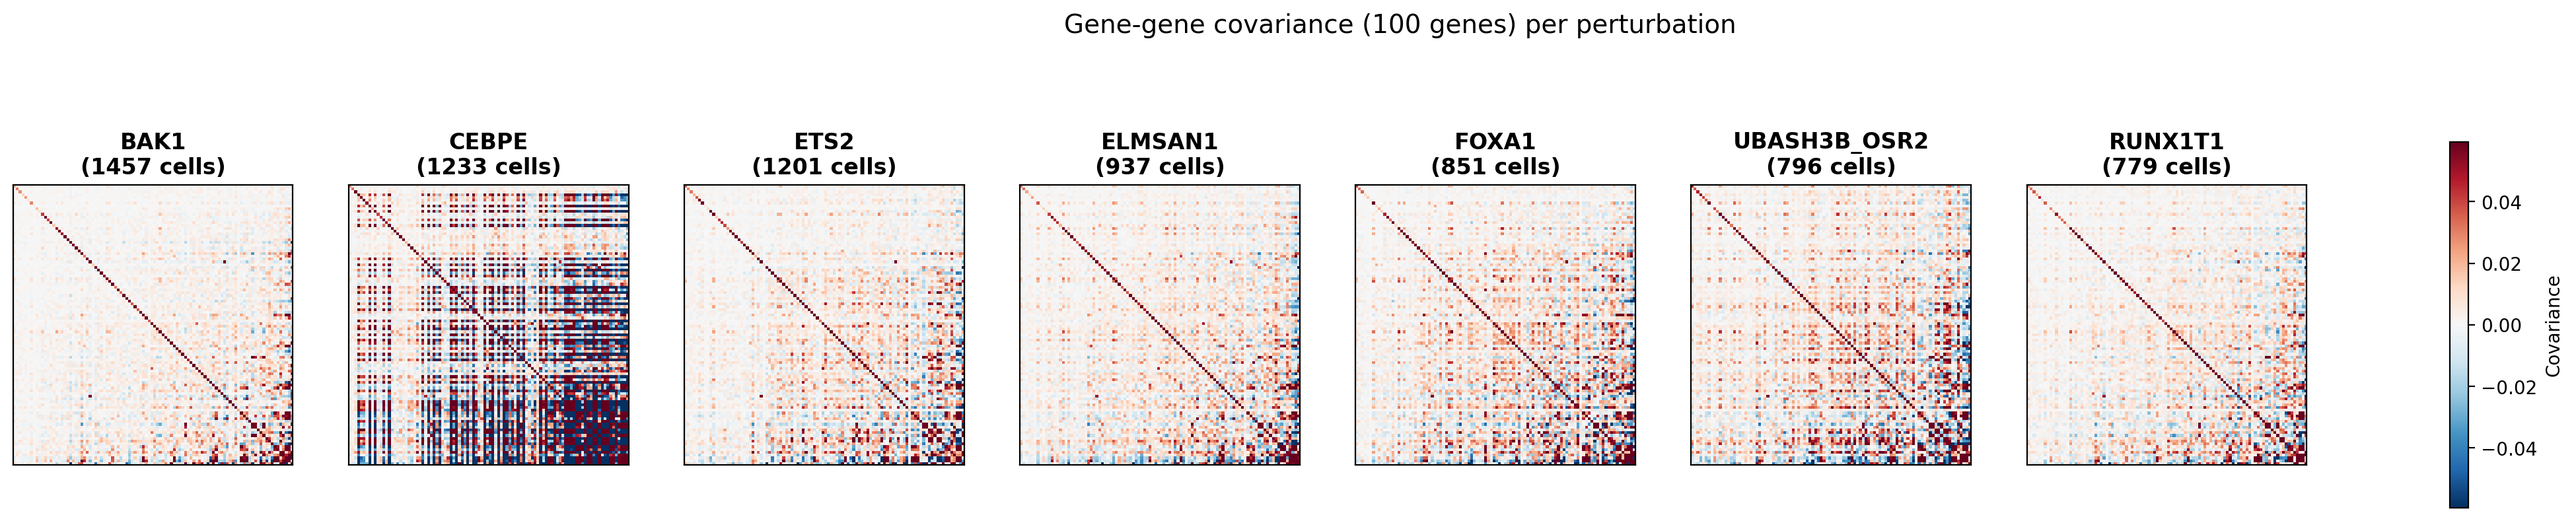
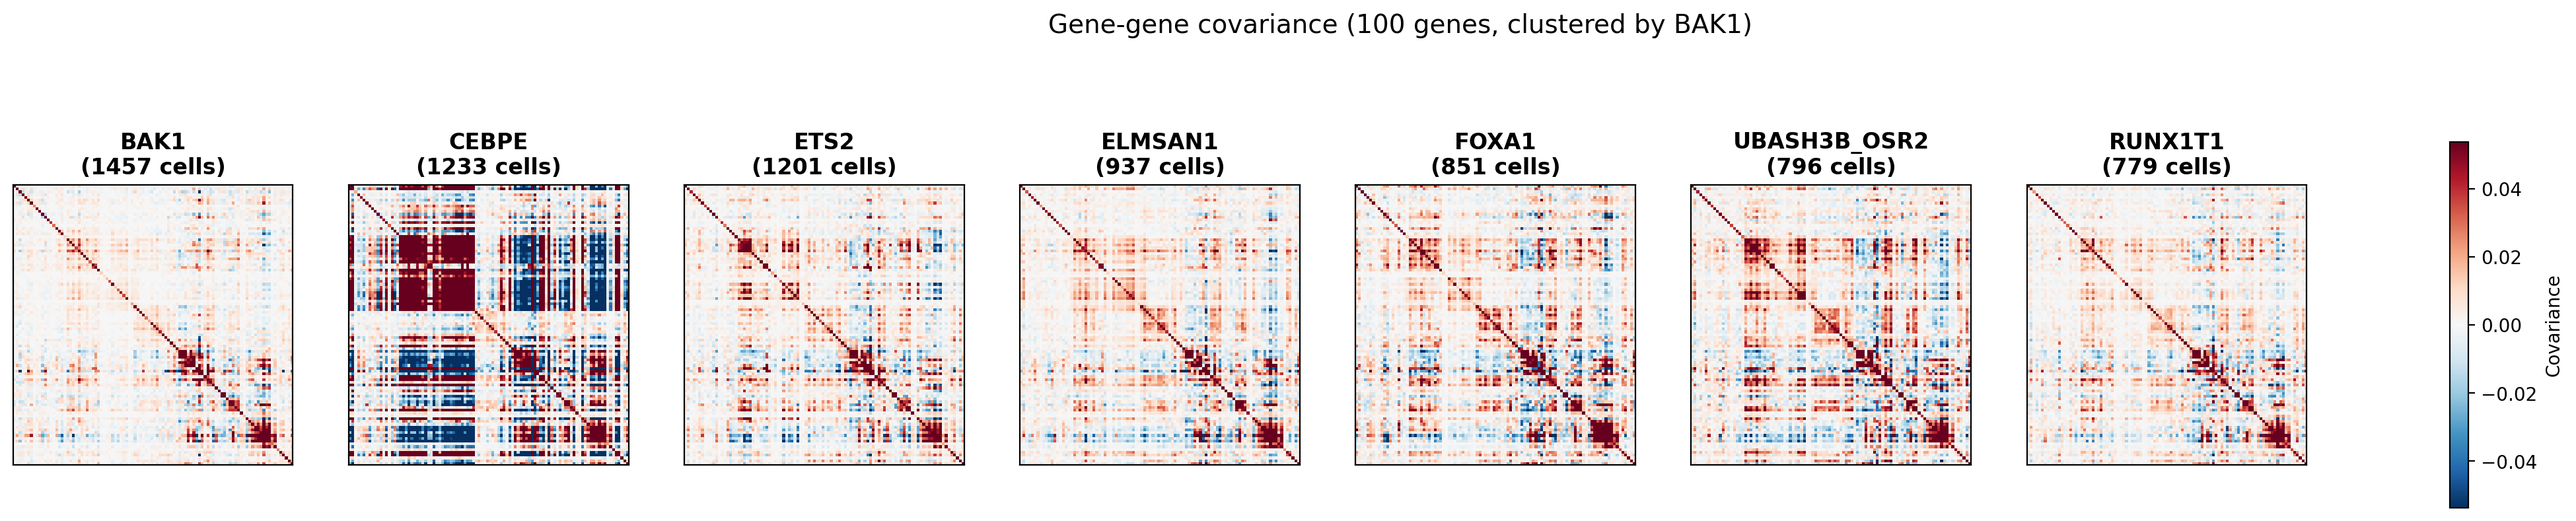
[scripts] cluster genes by control covariance, use shared color scale
Genes reordered by hierarchical clustering (average linkage, 1-|corr|)
of BAK1 covariance matrix. Single color scale across all panels.

https://claude.ai/code/session_01YbBZWBUoEGvGSUNm5NtjR1

diff --git a/scripts/plot_gene_covariance.py b/scripts/plot_gene_covariance.py
@@ -1,5 +1,8 @@
 """Plot gene-gene covariance matrices for perturbations in mini Norman dataset.
 
+Genes are ordered by hierarchical clustering of the control perturbation's
+covariance matrix. All panels share the same color scale.
+
 Row 1: Raw covariance matrices for a control perturbation + 6 others.
 Row 2: Difference (perturbation - control) covariance matrices.
 """
@@ -12,6 +15,21 @@ from pathlib import Path
 import anndata as ad
 import matplotlib.pyplot as plt
 import numpy as np
+from scipy.cluster.hierarchy import leaves_list, linkage
+from scipy.spatial.distance import squareform
+
+
+def _cluster_order(cov: np.ndarray) -> np.ndarray:
+    """Compute gene ordering via hierarchical clustering on 1-|corr|."""
+    std = np.sqrt(np.diag(cov))
+    std[std == 0] = 1e-10
+    corr = cov / np.outer(std, std)
+    corr = np.clip(corr, -1, 1)
+    dist = 1 - np.abs(corr)
+    np.fill_diagonal(dist, 0)
+    dist = (dist + dist.T) / 2
+    Z = linkage(squareform(dist), method="average")
+    return leaves_list(Z)
 
 
 def main() -> None:
@@ -21,7 +39,7 @@ def main() -> None:
     parser.add_argument("--perturbations", nargs="+", default=None,
                         help="Perturbations to show (default: 6 largest after control)")
     parser.add_argument("--output", type=str, default="gene_gene_covariance.png")
-    parser.add_argument("--dpi", type=int, default=150)
+    parser.add_argument("--dpi", type=int, default=200)
     args = parser.parse_args()
 
     adata = ad.read_h5ad(args.input)
@@ -47,12 +65,20 @@ def main() -> None:
         cell_counts[p] = int(mask.sum())
         cov_matrices[p] = np.cov(X[mask], rowvar=False)
 
+    # Cluster genes by control covariance and reorder all matrices
+    order = _cluster_order(cov_matrices[control])
+    for p in all_perts:
+        cov_matrices[p] = cov_matrices[p][np.ix_(order, order)]
+
     # Difference matrices
     diff_matrices = {p: cov_matrices[p] - cov_matrices[control] for p in perturbations}
 
-    # Color scales (95th percentile of absolute values)
-    vmax_raw = np.percentile(np.abs(np.concatenate([cov_matrices[p].ravel() for p in all_perts])), 95)
-    vmax_diff = np.percentile(np.abs(np.concatenate([diff_matrices[p].ravel() for p in perturbations])), 95)
+    # Single shared color scale across all panels
+    all_vals = np.concatenate(
+        [cov_matrices[p].ravel() for p in all_perts]
+        + [diff_matrices[p].ravel() for p in perturbations]
+    )
+    vmax = np.percentile(np.abs(all_vals), 95)
 
     n_cols = len(all_perts)
     fig, axes = plt.subplots(2, n_cols, figsize=(4 * n_cols, 8))
@@ -60,14 +86,12 @@ def main() -> None:
     # Row 1: raw covariance
     for i, p in enumerate(all_perts):
         ax = axes[0, i]
-        im1 = ax.imshow(cov_matrices[p], cmap="RdBu_r", vmin=-vmax_raw, vmax=vmax_raw, aspect="equal")
+        im = ax.imshow(cov_matrices[p], cmap="RdBu_r", vmin=-vmax, vmax=vmax, aspect="equal")
         ax.set_title(f"{p}\n({cell_counts[p]} cells)", fontsize=10)
         ax.set_xticks([])
         ax.set_yticks([])
         if i == 0:
             ax.set_ylabel("Gene-gene covariance", fontsize=11)
-
-    fig.colorbar(im1, ax=axes[0, :].tolist(), shrink=0.6, label="Covariance")
 
     # Row 2: control slot is blank, then differences
     axes[1, 0].axis("off")
@@ -76,20 +100,19 @@ def main() -> None:
 
     for i, p in enumerate(perturbations):
         ax = axes[1, i + 1]
-        im2 = ax.imshow(diff_matrices[p], cmap="RdBu_r", vmin=-vmax_diff, vmax=vmax_diff, aspect="equal")
+        ax.imshow(diff_matrices[p], cmap="RdBu_r", vmin=-vmax, vmax=vmax, aspect="equal")
         ax.set_title(f"{p} − {control}", fontsize=10)
         ax.set_xticks([])
         ax.set_yticks([])
         if i == 0:
             ax.set_ylabel(f"Δ Covariance\n(pert − {control})", fontsize=11)
 
-    fig.colorbar(im2, ax=axes[1, :].tolist(), shrink=0.6, label="ΔCovariance")
+    fig.colorbar(im, ax=axes.ravel().tolist(), shrink=0.6, label="Covariance")
 
     fig.suptitle(
-        f"Gene-gene covariance matrices: Norman mini dataset ({adata.n_vars} genes)",
+        f"Gene-gene covariance: {adata.n_vars} genes, clustered by {control}, shared scale",
         fontsize=14, y=1.02,
     )
-    plt.tight_layout()
 
     output = Path(args.output)
     output.parent.mkdir(parents=True, exist_ok=True)
